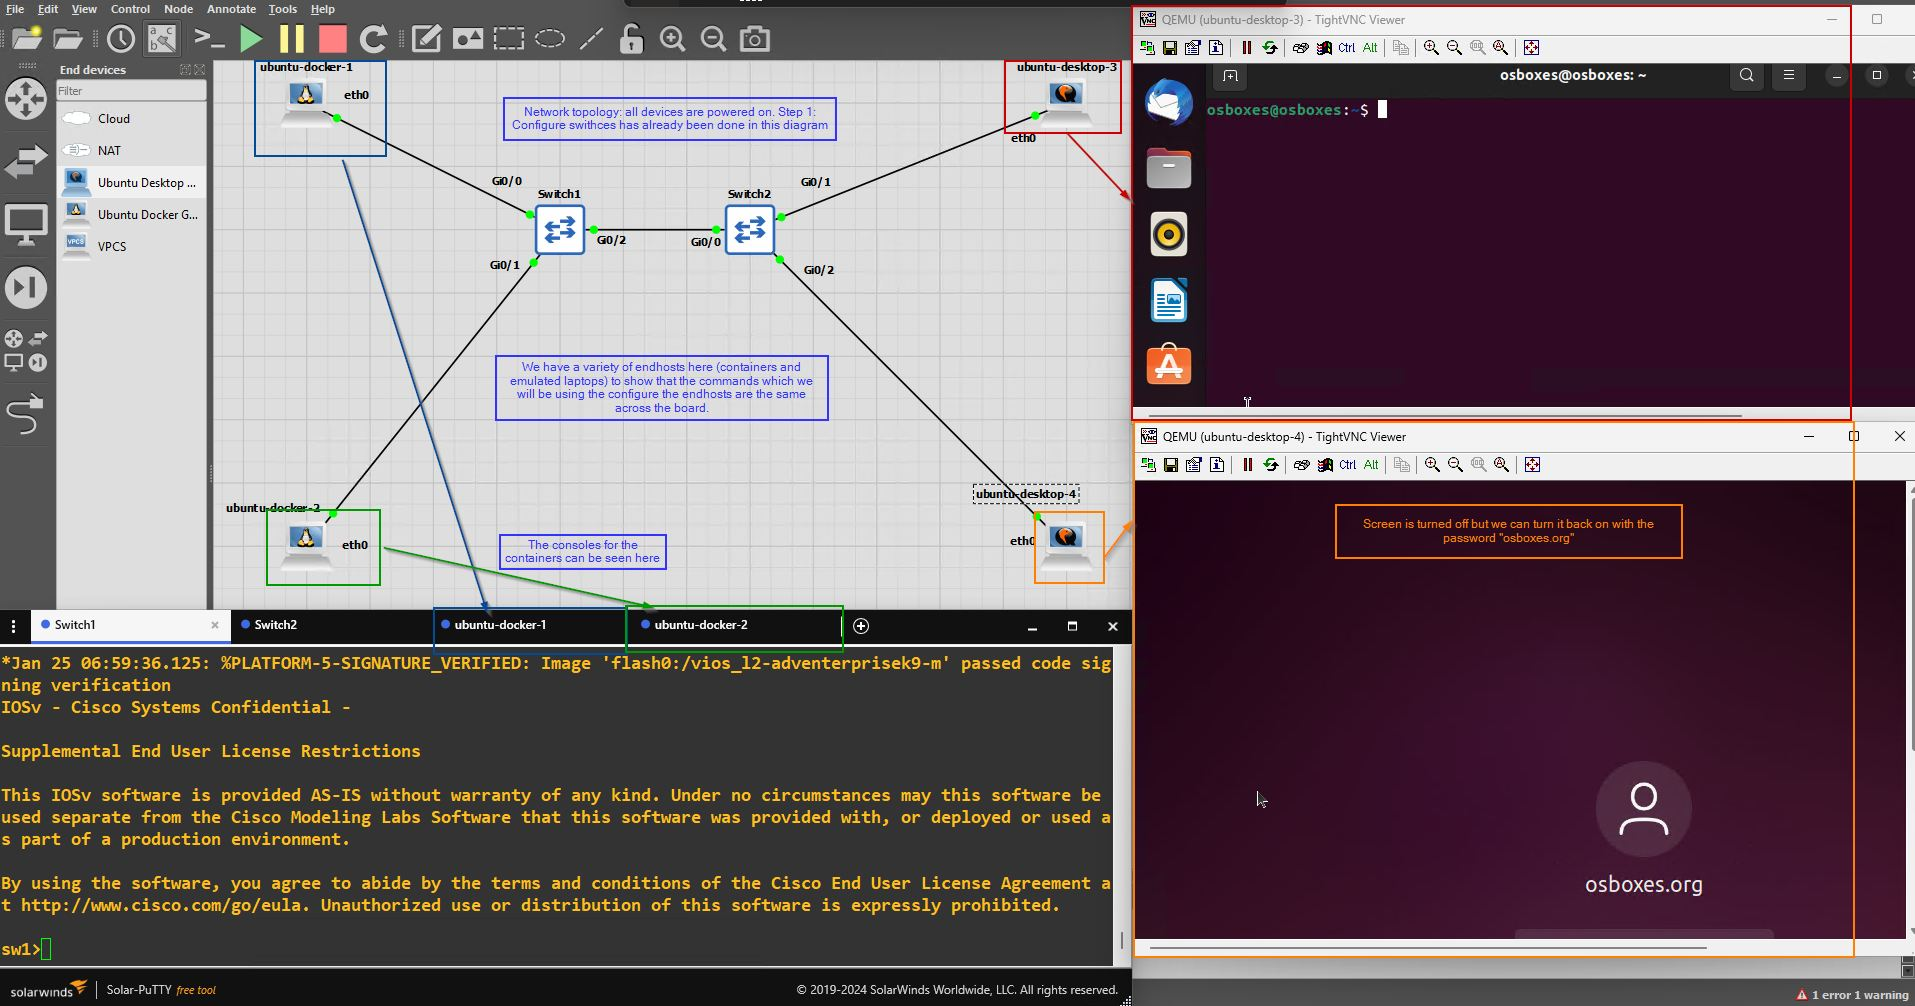
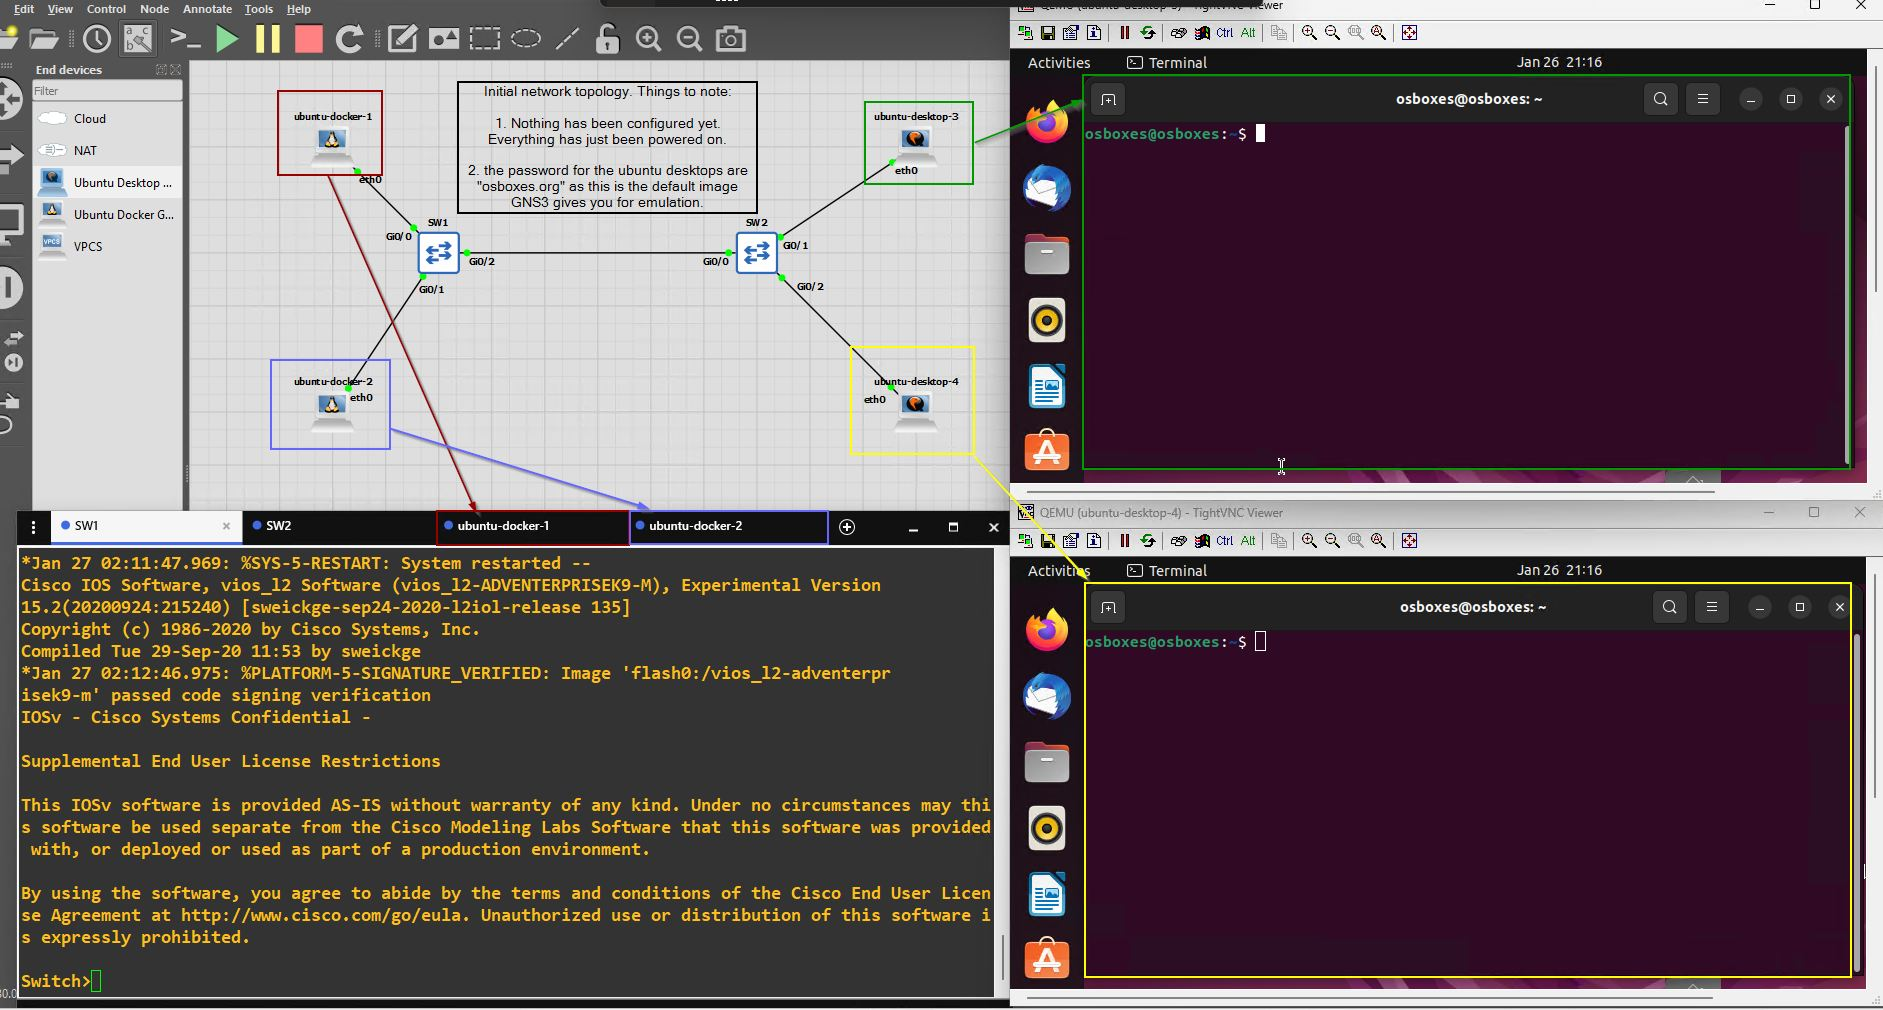
update: pictures for lab 3

diff --git a/README.md b/README.md
@@ -160,7 +160,11 @@ Total Mac Addresses for this criterion: 2
 
 **Purpose**: In the following lab we will be seeing how the MAC address table of each switch gets updated and how the ARP table for the endhosts get updated.
 
-### Step 1: Configure switches
+The following diagram outlines the initial topology we have set up:
+
+![Starting configuration for lab3 with no configuration done to anything yet.](./pictures/lab3_intro.jpg)
+
+### Step 1: Configure hostnames for the switches
 
 We will clear the existing configuration of the switches and set a simple hostname for each one. We will also clear the existing mac address table in case there are dynamic entries in it.
 
